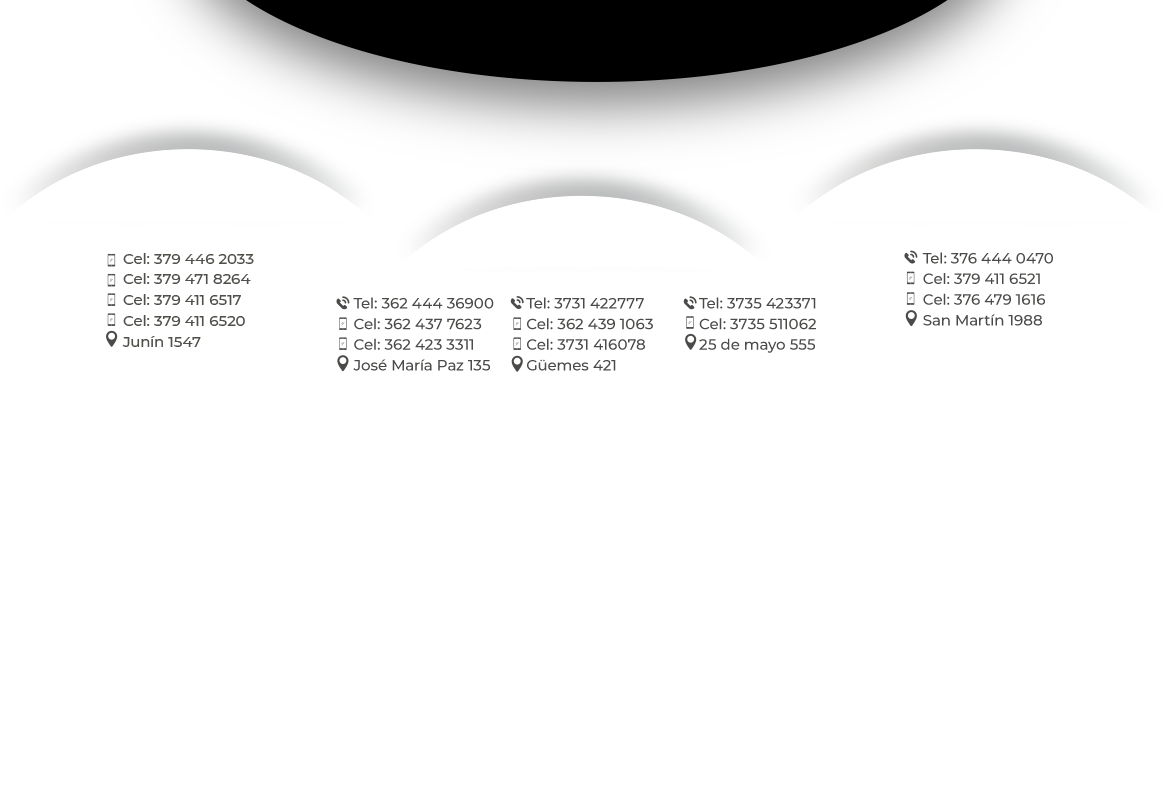
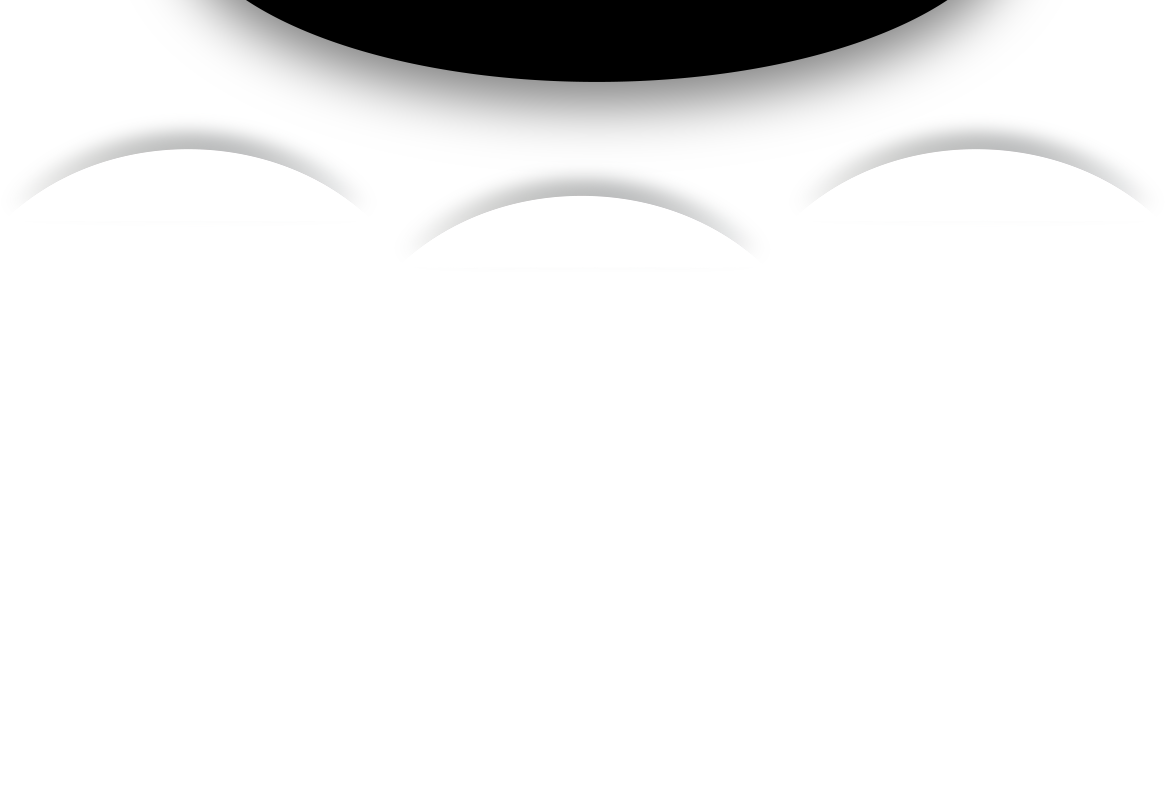
Update

diff --git a/css/style.css b/css/style.css
@@ -424,50 +424,60 @@ body {
         left: 3.3vw;
     }
     .branch {
-        min-height: 36vw;
+        background: url(../img/branch-sm.png) no-repeat center center; 
+        -webkit-background-size: cover;
+        -moz-background-size: cover;
+        -o-background-size: cover;
+        background-size: cover;
+        min-height: 66vw;
     }
     .branch div.col-12 h4 {
         font-size: 2.5vw;
-        top: 1.7vw;
+        top: 1.3vw;
     }
     .branch div.col-4 h5 {
         font-size: 1.9vw;
     }
     .branch div.col-4:nth-child(1) h5 {
         top: 15.3vw;
-        left: 10.27vw;
+        left: 9vw;
     }
     .branch div.col-4:nth-child(2) h5 { 
         top: 19vw;
-        left: 13.85vw;
+        left: 12.5vw;
     }
     .branch div.col-4:nth-child(3) h5 {
         top: 15.3vw;
-        left: 11vw;
+        left: 12vw;
     }
 
     .branch div.col-4 h6 {
         font-size: 1.7vw;
     }
     .branch div.col-4:nth-child(1) h6 {
-        top: 18.3vw;
-        left: 10.3vw;
+        top: 19.5vw;
+        left: 9.1vw;
     }
     .branch div.col-4:nth-child(3) h6 {
-        top: 18.3vw;
-        left: 7.9vw;
+        top: 19.5vw;
+        left: 12vw;
     }
+    /*
     .branch div.col-4:nth-child(2) .row div.col h6 {
-        top: 21.5vw;
+        top: 23vw;
     }
+    */
     .branch div.col-4:nth-child(2) .row div.col:nth-child(1) h6 {
-        left: .1vw;
+        top: 23vw;
+        left: 2vw;
     }
     .branch div.col-4:nth-child(2) .row div.col:nth-child(2) h6 {
-        left: 1.5vw;
+        top: 23vw;
+        left: 10.2vw;
     }
     .branch div.col-4:nth-child(2) .row div.col:nth-child(3) h6 {
-        left: 2.7vw;
+        top: 40vw;
+        left: -10vw;
     }
     .branch div.col-4 p {
         font-size: 1.5vw;
@@ -475,24 +485,29 @@ body {
         line-height: 2vw;
     }
     .branch div.col-4:nth-child(1) p {
-        top: 21vw;
-        left: 8.3vw;
+        top: 22vw;
+        left: 7.3vw;
     }
     .branch div.col-4:nth-child(3) p {
-        top: 21vw;
-        left: 6vw;
+        top: 22vw;
+        left: 10vw;
     }
+    /*
     .branch div.col-4:nth-child(2) .row div.col p {
         top: 25vw;
     }
+    **/
     .branch div.col-4:nth-child(2) .row div.col:nth-child(1) p {
-        left: -1.1vw;
+        top: 25.5vw;
+        left: 0vw;
     }
     .branch div.col-4:nth-child(2) .row div.col:nth-child(2) p {
-        left: .4vw;
+        top: 25.5vw;
+        left: 8.4vw;
     }
     .branch div.col-4:nth-child(2) .row div.col:nth-child(3) p {
-        left: 1.9vw;
+        top: 43vw;
+        left: -12.1vw;
     }
   
 }

diff --git a/index.html b/index.html
@@ -8,7 +8,7 @@
   <link href="./img/icon.png" rel="shortcut icon">
   <link href="https://cdn.jsdelivr.net/npm/bootstrap@5.1.3/dist/css/bootstrap.min.css" rel="stylesheet" integrity="sha384-1BmE4kWBq78iYhFldvKuhfTAU6auU8tT94WrHftjDbrCEXSU1oBoqyl2QvZ6jIW3" crossorigin="anonymous">
   <link rel="stylesheet" href="https://cdnjs.cloudflare.com/ajax/libs/font-awesome/6.0.0-beta3/css/all.min.css" integrity="sha512-Fo3rlrZj/k7ujTnHg4CGR2D7kSs0v4LLanw2qksYuRlEzO+tcaEPQogQ0KaoGN26/zrn20ImR1DfuLWnOo7aBA==" crossorigin="anonymous" referrerpolicy="no-referrer" />
-  <link href="./css/style.css?v=1" rel="stylesheet">
+  <link href="./css/style.css" rel="stylesheet">
 </head>
 <body>
 
